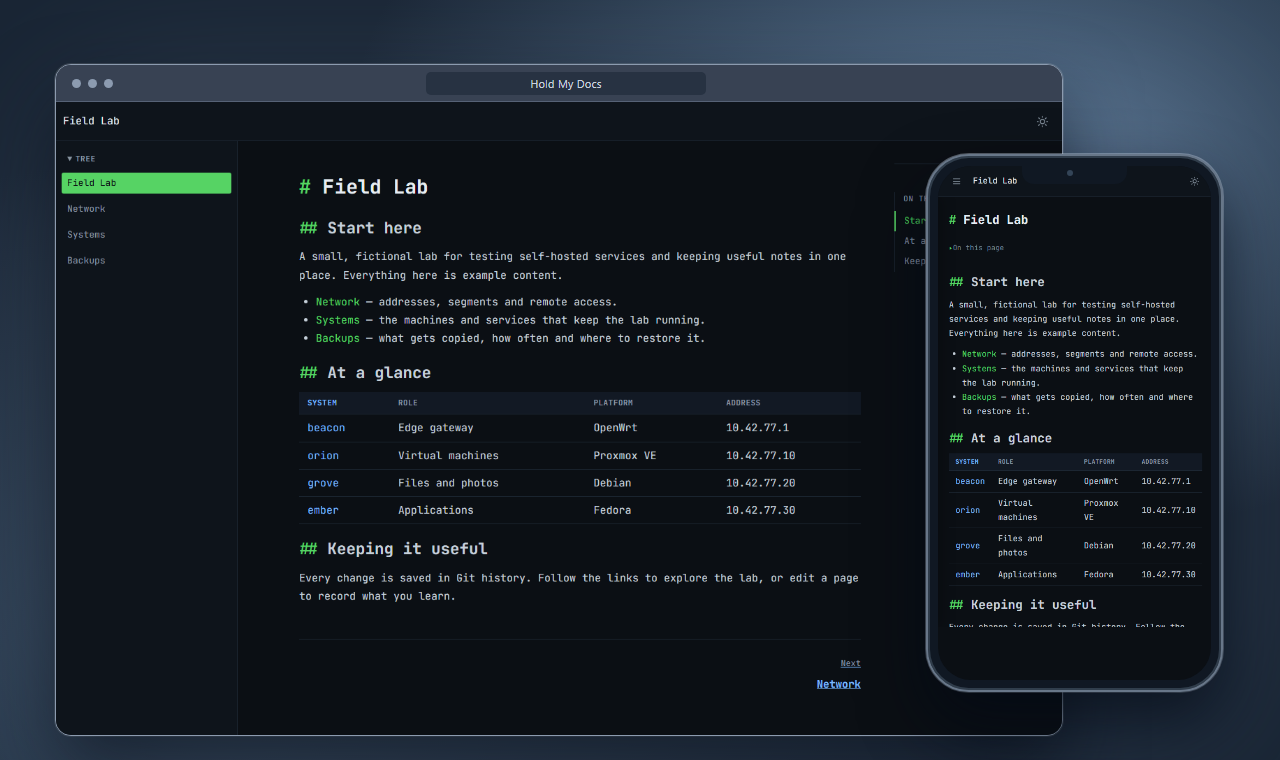
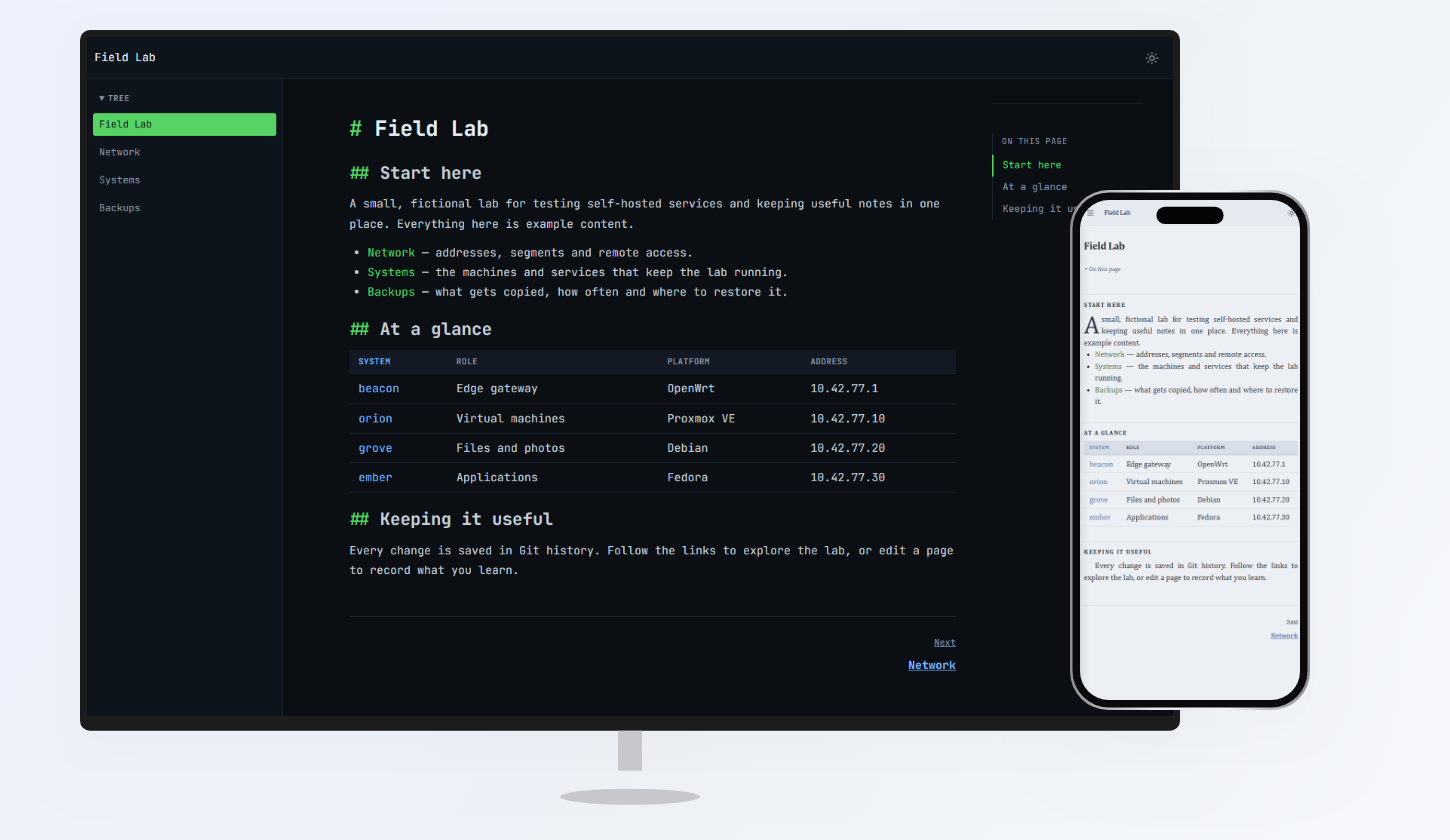
docs: show light newsprint mobile view in README hero

diff --git a/docs/hero-source.md b/docs/hero-source.md
@@ -1,0 +1,10 @@
+# README hero
+
+The README hero was composed with [ProjectMock](https://github.com/elpah/project-mock), using its **Hero Monitor + Phone** layout. It combines two captures of the same fictional Field Lab page from a temporary local HMD instance:
+
+- `screenshots/09-field-lab-desktop.png` — phosphor skin, dark mode, 1440 × 960.
+- `screenshots/10-field-lab-mobile-light.png` — newsprint skin, light mode, 500 × 1084.
+
+The desktop uses the preset's default position. Move the phone to x = 1070, y = 190, set its rotation to 0°, and keep its scale at 1. The final image is the upper-left 1450 × 840 region of the 1600 × 1000 composition. Export it as `hero.png`.
+
+Recapture both views from synthetic content when the HMD interface changes. The mobile image is a genuine responsive view, not a crop of the desktop capture. For capture setup and privacy precautions, see the HMD MCP page `ai/hmd/capturing-screenshots`.

diff --git a/README.md b/README.md
@@ -4,7 +4,7 @@
 
 Hold My Docs (HMD) runs as a single Go binary and keeps your content as Markdown in an ordinary Git repository. Every save is a commit, so your docs have real history and can sync to a remote you already use.
 
-<img src="docs/hero.png" width="860" alt="A fictional Field Lab wiki in HMD, shown side by side in a desktop browser and a framed mobile screen">
+<img src="docs/hero.png" width="860" alt="A fictional Field Lab wiki in HMD, shown on a dark desktop monitor beside a phone using the light newsprint theme">
 
 ## Features
 
